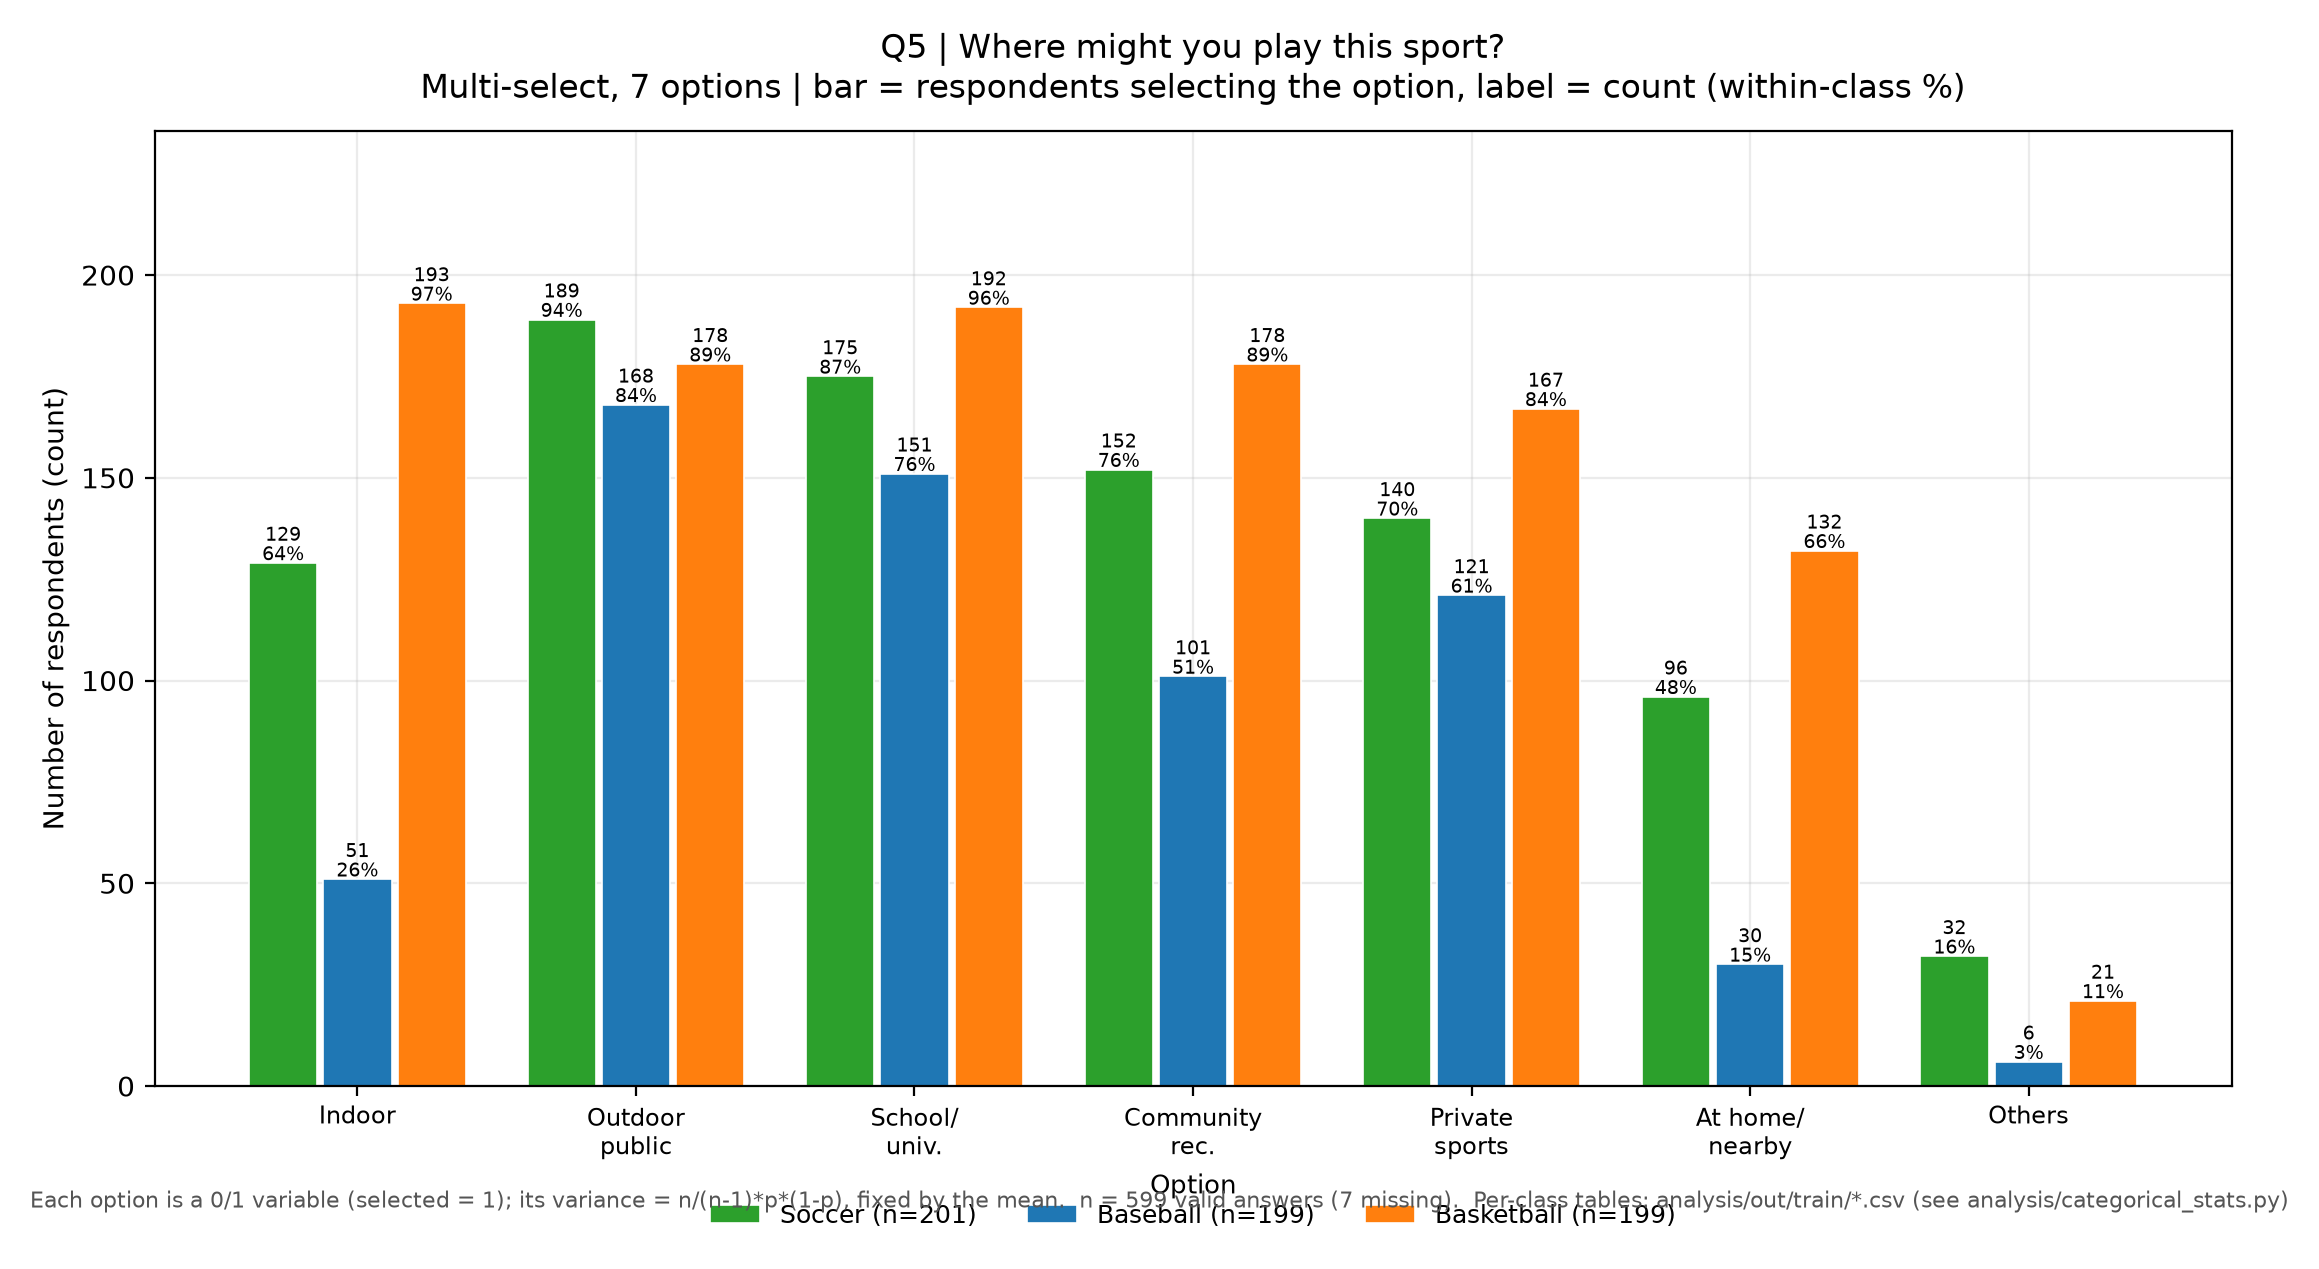
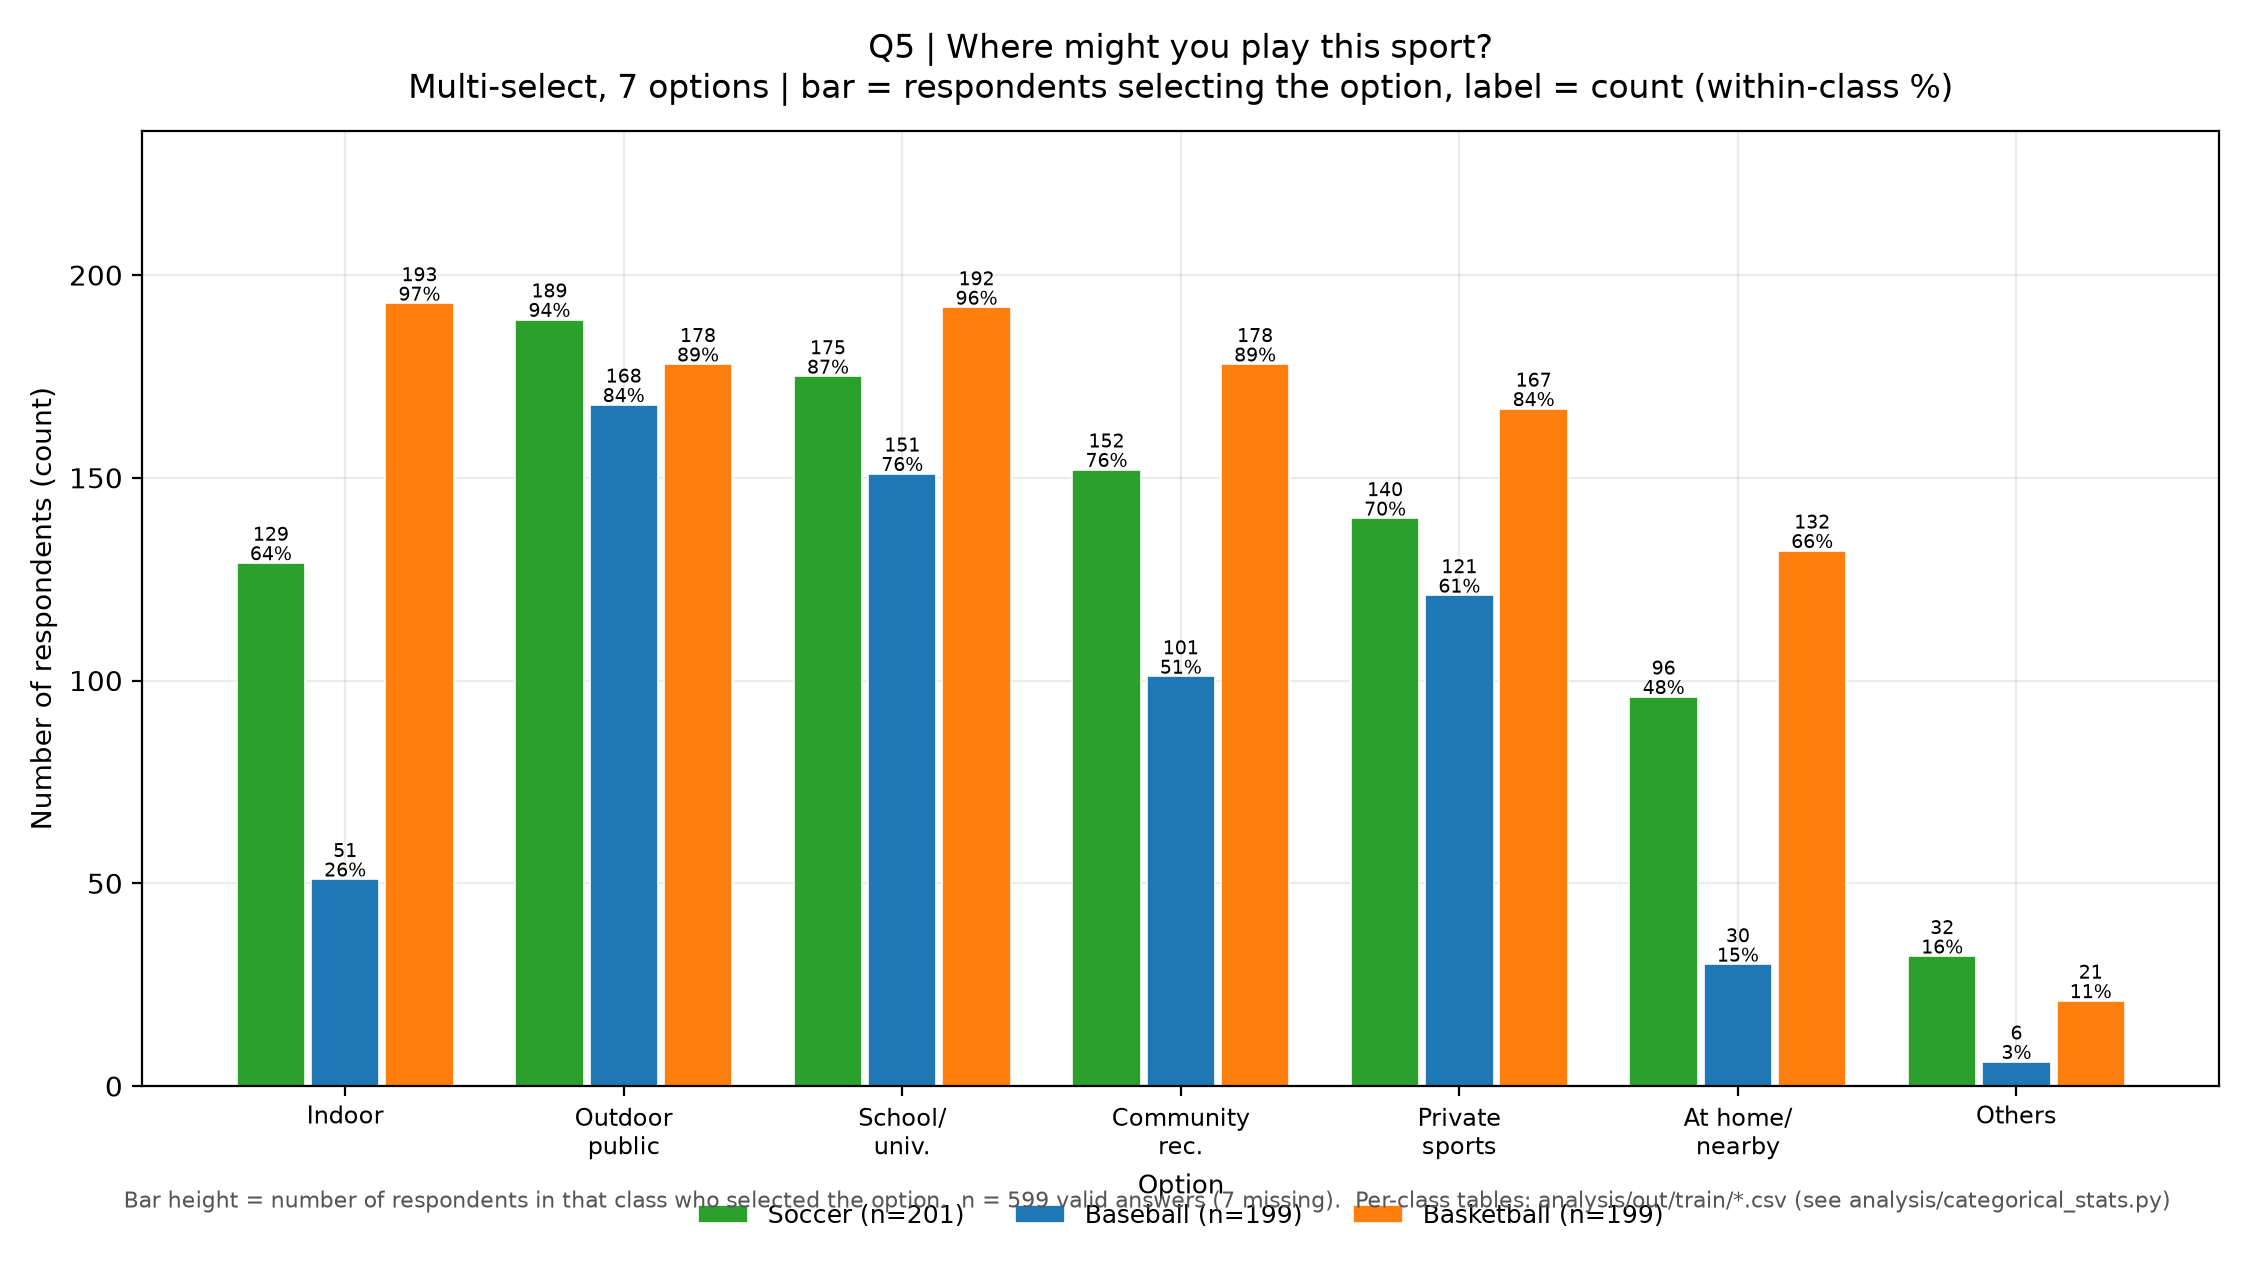
update multi-selection analysis and plot figure script so that it doesn't calculate mean and variance

diff --git a/analysis/categorical_stats.py b/analysis/categorical_stats.py
@@ -106,7 +106,11 @@ def single_choice_stats(df, classes):
 
 
 def multi_select_stats(df, classes, ranking):
-    """Per-option statistics of the three checkbox questions (+ selection count)."""
+    """Per-option counts of the three checkbox questions (+ selection-count distribution).
+
+    No mean and no variance: for a 0/1 indicator the variance is fully determined by
+    the mean, so only the raw counts are reported.
+    """
     results, rows, count_rows = [], [], []
     labs = df["label"]
 
@@ -115,80 +119,63 @@ def multi_select_stats(df, classes, ranking):
         raw = df[col].astype(str).str.strip().replace("", np.nan)
         tokens = raw.map(lambda s: {t.strip() for t in s.split(",")} if isinstance(s, str) else set())
         valid_mask = raw.notna()
-        if int(valid_mask.sum()) == 0:
+        n_all = int(valid_mask.sum())
+        if n_all == 0:
             continue
         question = f"{q} {name}"
+        n_by_class = {c: int((labs[valid_mask] == c).sum()) for c in classes}
 
+        # derived feature: how many options each respondent selected -> count distribution
         cnt = tokens[valid_mask].map(len)
         cnt_by_class = {c: cnt[labs[valid_mask] == c].values for c in classes}
-        n_all, mu, var, sd = describe(cnt.values)
-        eta2 = eta_sq(list(cnt_by_class.values()))
-        ranking.append((f"{question} #selected", np.sqrt(eta2), eta2, "count"))
+        max_cnt = int(max((len(s) for s in tokens[valid_mask]), default=0))
+        values = list(range(max_cnt + 1))
+        dist = {c: [int((cnt_by_class[c] == k).sum()) for k in values] for c in classes}
 
         blank, invalid, valid_n, examples = feature_quality(df, prefix, "multi", vocab)
 
         count_feature = {
-            "n": n_all, "mean": mu, "var": var, "sd": sd,
-            "by_class": {c: {"n": describe(cnt_by_class[c])[0],
-                             "mean": describe(cnt_by_class[c])[1],
-                             "var": describe(cnt_by_class[c])[2]} for c in classes},
-            "eta2": eta2,
+            "n": n_all,
+            "values": values,
+            "dist": dist,
+            "by_class": {c: {"n": n_by_class[c]} for c in classes},
         }
 
         options = []
         for opt in vocab:
             ind = tokens[valid_mask].map(lambda s: 1 if opt in s else 0)
-            by_class = {c: ind[labs[valid_mask] == c].values for c in classes}
-            n_o, mu_o, var_o, sd_o = describe(ind.values)
-            table = [[int(sum(by_class[c])), int(len(by_class[c]) - sum(by_class[c]))] for c in classes]
-            table = [list(x) for x in zip(*table)]
+            sel_by_class = {c: int(ind[labs[valid_mask] == c].sum()) for c in classes}
+            selected = int(sum(sel_by_class.values()))
+            table = [[sel_by_class[c] for c in classes],
+                     [n_by_class[c] - sel_by_class[c] for c in classes]]
             v = cramers_v(table)
             ranking.append((f"{question} - {opt}", v, np.nan, "indicator"))
 
             options.append({
-                "option": opt, "n": n_o, "rate": mu_o, "var": var_o, "sd": sd_o,
-                "by_class": {c: {"n": describe(by_class[c])[0],
-                                 "rate": describe(by_class[c])[1],
-                                 "var": describe(by_class[c])[2]} for c in classes},
+                "option": opt,
+                "n": n_all,
+                "selected": selected,
+                "selected_by_class": sel_by_class,
+                "n_by_class": n_by_class,
                 "cramers_v": v,
             })
-            rows.append(dict(question=question, kind="multi_indicator", option=opt, class_="ALL",
-                             n=n_o, rate=mu_o, var=var_o, sd=sd_o, cramers_v=v,
-                             **{f"rate_{c}": describe(by_class[c])[1] for c in classes},
-                             **{f"var_{c}": describe(by_class[c])[2] for c in classes},
-                             **{f"n_{c}": describe(by_class[c])[0] for c in classes}))
+            rows.append(dict(question=question, kind="multi_indicator", option=opt,
+                             n=n_all, selected=selected,
+                             **{f"selected_{c}": sel_by_class[c] for c in classes},
+                             **{f"n_{c}": n_by_class[c] for c in classes},
+                             cramers_v=v))
 
-        season_supplement = None
-        if "season" in name:
-            idx = {c: [] for c in classes}
-            for _, r in df.iterrows():
-                s = str(r[col]).strip()
-                if not s:
-                    continue
-                for t in {x.strip() for x in s.split(",") if x.strip()}:
-                    if t in SEASON_INDEX:
-                        idx[r["label"]].append(SEASON_INDEX[t])
-            allv = [v for c in classes for v in idx[c]]
-            n_s, mu_s, var_s, _ = describe(allv)
-            season_supplement = {
-                "n": n_s, "mean": mu_s, "var": var_s,
-                "by_class": {c: {"mean": describe(idx[c])[1], "var": describe(idx[c])[2]}
-                             for c in classes},
-                "eta2": eta_sq([idx[c] for c in classes]),
-            }
+        for k in values:
+            count_rows.append(dict(question=question, feature="selection_count", value=k,
+                                   n_total=sum(dist[c][k] for c in classes),
+                                   **{f"n_{c}": dist[c][k] for c in classes}))
 
         results.append({
             "question": question, "column": col, "n": n_all,
             "quality": {"blank": blank, "invalid": invalid, "valid": valid_n,
                         "examples": examples},
             "count": count_feature, "options": options,
-            "season_supplement": season_supplement,
         })
-
-        count_rows.append(dict(question=question, feature="selection_count", n=n_all,
-                               mean=mu, var=var, sd=sd, eta2=eta2,
-                               **{f"mean_{c}": describe(cnt_by_class[c])[1] for c in classes},
-                               **{f"var_{c}": describe(cnt_by_class[c])[2] for c in classes}))
 
     return results, rows, count_rows
 
@@ -234,21 +221,15 @@ def print_result(result):
     for m in result["multi"]:
         c = m["count"]
         print(f"\n{m['question']}")
-        print(f"  count n={c['n']} mean={fmt(c['mean'])} var={fmt(c['var'])} "
-              f"sd={fmt(c['sd'])} eta2={fmt(c['eta2'])}")
-        print("  " + " | ".join(
-            f"{cl} n={c['by_class'][cl]['n']} mean={fmt(c['by_class'][cl]['mean'])} "
-            f"var={fmt(c['by_class'][cl]['var'])}" for cl in classes))
+        print(f"  n={c['n']}  " + " ".join(f"{cl} n={c['by_class'][cl]['n']}" for cl in classes))
+        dist = "  ".join(
+            f"{v}=" + "/".join(str(c["dist"][cl][i]) for cl in classes)
+            for i, v in enumerate(c["values"]))
+        print(f"  #selected {dist}")
         for o in m["options"]:
-            print(f"  {o['option']:<34} rate={fmt(o['rate'])}  " +
-                  " ".join(f"{cl}={fmt(o['by_class'][cl]['rate'])}" for cl in classes) +
-                  "  var=" + "/".join(fmt(o["by_class"][cl]["var"]) for cl in classes) +
+            print(f"  {o['option']:<34} selected={o['selected']:<4} " +
+                  " ".join(f"{cl}={o['selected_by_class'][cl]}" for cl in classes) +
                   f"  V={fmt(o['cramers_v'])}")
-        sup = m.get("season_supplement")
-        if sup:
-            print(f"  season index mean={fmt(sup['mean'])} var={fmt(sup['var'])} "
-                  f"eta2={fmt(sup['eta2'])}  " +
-                  " ".join(f"{cl}={fmt(sup['by_class'][cl]['mean'])}" for cl in classes))
 
     clean = [r for r in result["ranking"] if r[1] == r[1]]
     clean.sort(key=lambda r: -r[1])

diff --git a/data_visualization/plot_histograms.py b/data_visualization/plot_histograms.py
@@ -236,8 +236,8 @@ def plot_multi(df, spec, out_path):
     finish(ax, ymax)
 
     fig.text(0.5, 0.012,
-             f"Each option is a 0/1 variable (selected = 1); its variance = n/(n-1)*p*(1-p), "
-             f"fixed by the mean.  n = {n_all} valid answers ({len(df) - n_all} missing).  "
+             f"Bar height = number of respondents in that class who selected the option.  "
+             f"n = {n_all} valid answers ({len(df) - n_all} missing).  "
              f"Per-class tables: analysis/out/train/*.csv (see analysis/categorical_stats.py)",
              ha="center", fontsize=8, color="#555")
     save(fig, out_path)
@@ -259,7 +259,6 @@ def count_values(df, spec):
 def plot_count_feature(df, spec, out_path):
     q, question, n_opt, _ = spec
     values, counts, n_opt = count_values(df, spec)
-    mean_s, var_s = compact_stats(values, 0)
 
     fig, ax = plt.subplots(figsize=(9.8, 6.4))
     positions = np.arange(0, n_opt + 1)
@@ -267,9 +266,7 @@ def plot_count_feature(df, spec, out_path):
     ax.set_xticks(positions)
     ax.set_xlabel(f"Number of options selected by the respondent (0-{n_opt})", fontsize=9.5)
     ax.set_title(f"{q} | {wrap(question, 66)}   (number of options selected)\n"
-                 f"Multi-select, {n_opt} options, derived count feature   |   "
-                 f"Soccer / Baseball / Basketball\n"
-                 f"mean: {mean_s}      variance: {var_s}", fontsize=10.5)
+                 f"Multi-select, {n_opt} options, derived count feature", fontsize=10.5)
     finish(ax, ymax)
 
     fig.text(0.5, 0.012,
@@ -306,10 +303,8 @@ def plot_overview(df, single_vals, count_vals, out_path):
         ax.set_xticks(positions)
         ax.set_xlabel("Number of options selected", fontsize=8)
         ax.set_ylabel("Count", fontsize=8)
-        mean_s, var_s = compact_stats(values, 0)
         ax.set_title(f"{q} | {wrap(question, 44)}\n"
-                     f"Multi-select, count feature (0-{n_opt})\n"
-                     f"mean: {mean_s}\nvariance: {var_s}", fontsize=7.5)
+                     f"Multi-select, count feature (0-{n_opt})", fontsize=7.5)
         finish(ax, max(max(v) for v in values.values()), legend=False, title_pad=8)
 
     handles, labels = axes[0][0].get_legend_handles_labels()
@@ -317,7 +312,7 @@ def plot_overview(df, single_vals, count_vals, out_path):
                fontsize=11, bbox_to_anchor=(0.5, 0.005))
     fig.suptitle("Categorical questions: distribution of each feature by class "
                  "(Soccer / Baseball / Basketball)\n"
-                 "in the title of each panel: mean and variance in the order "
+                 "top row titles also give the mean and variance in the order "
                  "Soccer / Baseball / Basketball", fontsize=12)
     fig.tight_layout(rect=(0, 0.045, 1, 0.95))
     save(fig, out_path, dpi=170)

diff --git a/analysis/csv_output.py b/analysis/csv_output.py
@@ -23,7 +23,7 @@ def write_categorical_tables(result, out_dir):
         paths["multi"] = os.path.join(out_dir, "multi_select_stats.csv")
         multi_df.to_csv(paths["multi"], index=False, encoding="utf-8")
 
-    paths["count"] = os.path.join(out_dir, "selection_count_stats.csv")
+    paths["count"] = os.path.join(out_dir, "selection_count_distribution.csv")
     pd.DataFrame(result["count_rows"]).to_csv(paths["count"], index=False, encoding="utf-8")
     return paths
 

diff --git a/data_visualization/plotting_report.md b/data_visualization/plotting_report.md
@@ -62,7 +62,10 @@ number would destroy information.
 
 An additional **count feature** ("number of options selected", one per question) is
 derived as a real number valued 0…7 / 0…4 / 0…10. It carries the *quantity* of
-selection while the multi-hot columns carry *which* options were selected.
+selection while the multi-hot columns carry *which* options were selected. For these
+questions only counts are reported because for a 0/1
+indicator the variance is fully determined by the mean, so the moments add nothing
+over the raw counts.
 
 ### 2.4 Q8–Q12 — short answers (free text)
 
@@ -119,19 +122,19 @@ Grouped bars were chosen over overlapping translucent histograms because the thr
 distributions of one bin then stand side by side at reading scale, and because each
 bar can carry its own numeric label without the labels colliding.
 
-The single-choice and count figures also carry a compact
-`mean: … variance: …` line in the title (order Soccer / Baseball / Basketball), which
-lets the reader see the summary statistics without leaving the figure. No tables are
-drawn inside the figures — the numbers live in the CSV tables and in the terminal
-output of `analysis/categorical_stats.py`.
+The single-choice figures also carry a compact `mean: … variance: …` line in the
+title (order Soccer / Baseball / Basketball), which lets the reader see the summary
+statistics without leaving the figure. The multi-select and count figures do not:
+they show raw counts only.
 
 ### 3.2 Overview figure
 
 `00_overview.png` is a 2 × 3 grid: the top row repeats the three single-choice
 histograms (5 levels each), the bottom row shows the three "number of options
 selected" distributions. It is a one-glance summary; because the panels are small,
-the per-class mean and variance are written as two extra title lines instead of a
-per-bar `mean/variance` block, and one shared legend is placed under the figure.
+the single-choice panels carry per-class mean and variance as two extra title lines
+instead of a per-bar block, and one shared legend is placed under the figure. The
+bottom row shows counts only.
 
 ### 3.3 Style conventions
 
@@ -154,7 +157,7 @@ per-bar `mean/variance` block, and one shared legend is placed under the figure.
 |---|---|
 | `01`–`03` (single choice) | Do the three distributions shift monotonically, or does one class sit in the middle? Are the means close while the shapes differ (a sign that one-hot may beat the ordinal encoding)? |
 | `04`–`06` (multi-select) | Which options are near-deterministic for one class (e.g. `Indoor facility`: Basketball 97 % vs Baseball 26 %)? Which options are flat across classes and therefore uninformative? |
-| `07`–`09` (counts) | Does one class tick many more options than the others? This is a real-valued feature and often the strongest single signal of a multi-select question. |
+| `07`–`09` (counts) | Does one class tick many more options than the others? The whole distribution is shown, per class. |
 | `00` | Overall shape of the problem in one glance. |
 
 ---

diff --git a/analysis/README.md b/analysis/README.md
@@ -33,9 +33,11 @@ words to print per question).
 - the data-quality counts per feature (blank / invalid / valid)
 - per single-choice question: n, mean, variance, sd (overall and per class),
   Cramér's V, eta², and the 5-level counts (Soccer/Baseball/Basketball)
-- per multi-select question: the "number of options selected" statistics, then one
-  line per option with its selection rate, per-class rates, per-class variances
-  and Cramér's V
+- per multi-select question: the distribution of the "number of options selected",
+  then one line per option with the count of respondents who selected it (overall and
+  per class) and Cramér's V. No mean and no variance for multi-select: for a 0/1
+  indicator the variance is fully determined by the mean, so only raw counts are
+  reported
 - a ranking of all mapped features by Cramér's V
 
 
@@ -47,8 +49,8 @@ the top words with counts, share, document frequency and per-class counts.
 | File | Content |
 |---|---|
 | `single_choice_stats.csv` | Per-class statistics of the three Likert questions |
-| `multi_select_stats.csv` | Per-option statistics of the three multi-select questions |
-| `selection_count_stats.csv` | Statistics of the "number of options selected" feature |
+| `multi_select_stats.csv` | Per-option selection counts of the three multi-select questions |
+| `selection_count_distribution.csv` | Distribution of the "number of options selected", per class |
 | `text_token_counts.csv` | Long table: question, word, count, share, document counts, per-class counts |
 | `text_token_summary.csv` | One row per question: blanks, invalids, tokens, vocabulary size |
 | `text_normalized.csv` | Per-row normalised text |
